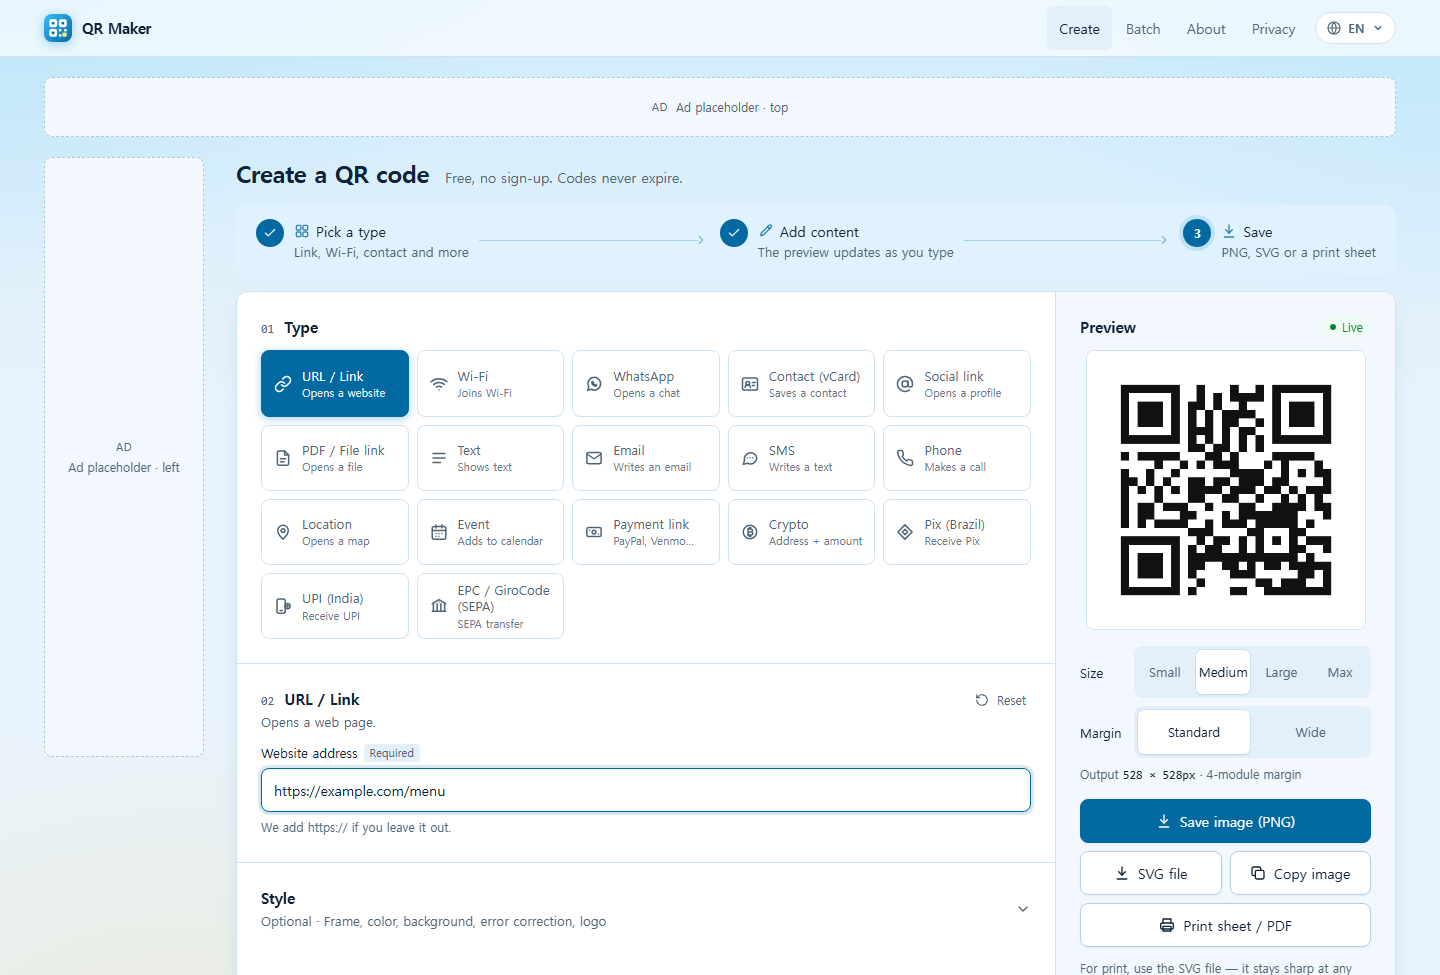
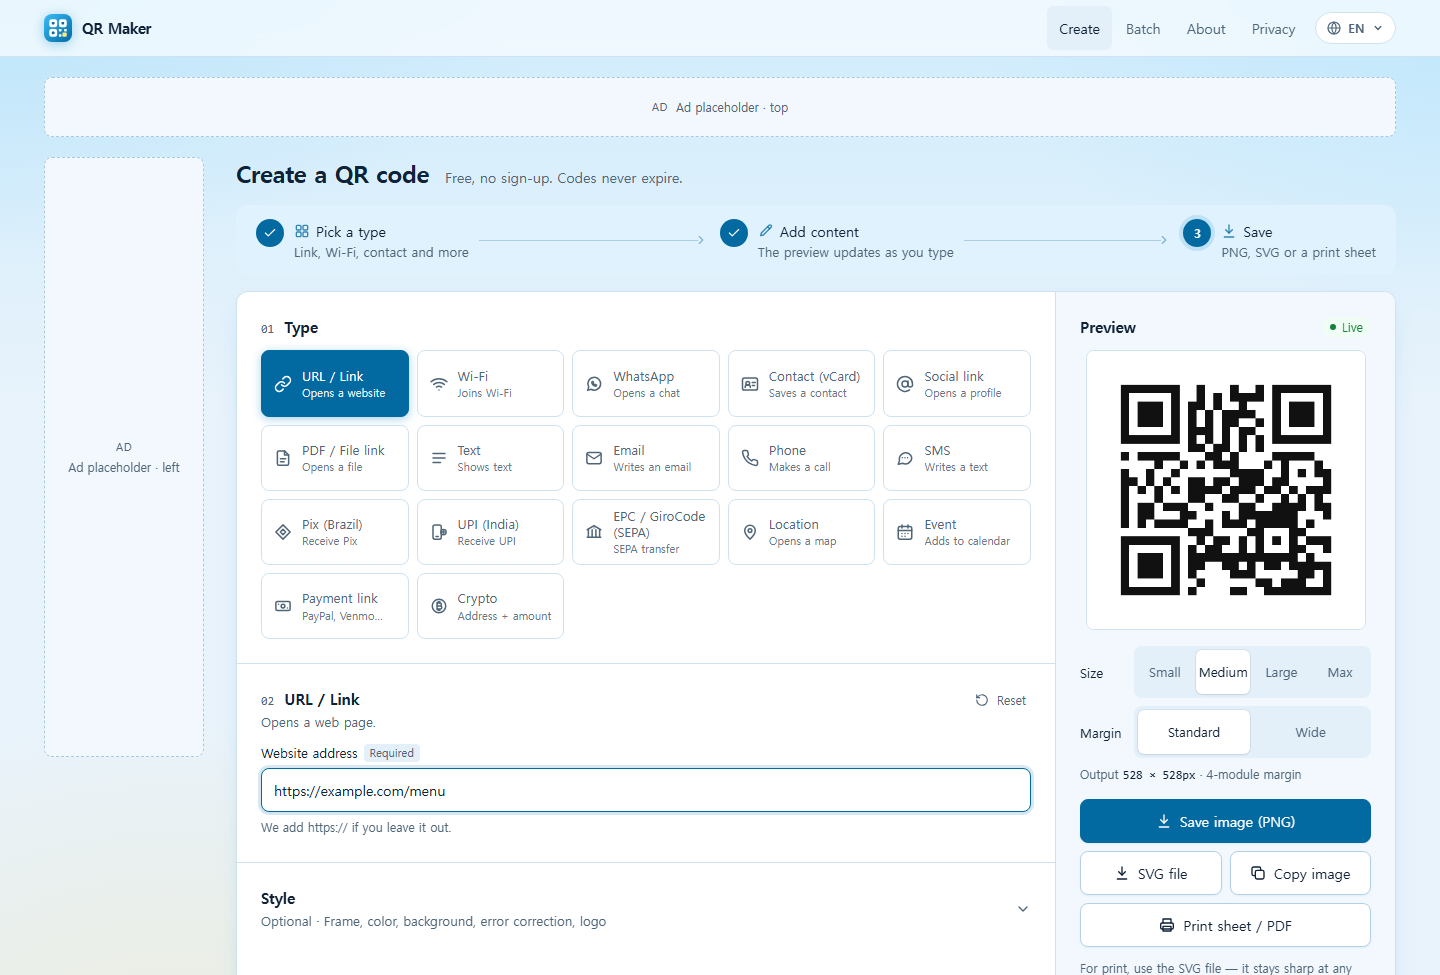
QR 종류 타일을 자주 쓰는 순서로 재정렬 (연락 수단 → 지역 결제 QR → 위치·일정·결제 링크·암호화폐), 메인 스크린샷 갱신

diff --git a/src/lib/qr/types.ts b/src/lib/qr/types.ts
@@ -1,6 +1,8 @@
-// Order = display order. The first six are the everyday ones (phones show only these until
-// "More types"): website, Wi-Fi sign, WhatsApp chat, business card, social profile, menu/PDF.
-export const QR_TYPES = ["url", "wifi", "whatsapp", "vcard", "social", "file", "text", "email", "sms", "phone", "geo", "event", "payment", "crypto", "pix", "upi", "epc"] as const;
+// Order = display order, most-used first. The first six are the everyday ones (phones show only
+// these until "More types"): website, Wi-Fi sign, WhatsApp chat, business card, social profile,
+// menu/PDF. Then plain text and the contact channels, the regional bank-transfer codes (Pix, UPI,
+// EPC — daily use in their markets), and finally the occasional ones.
+export const QR_TYPES = ["url", "wifi", "whatsapp", "vcard", "social", "file", "text", "email", "phone", "sms", "pix", "upi", "epc", "geo", "event", "payment", "crypto"] as const;
 export type QrType = (typeof QR_TYPES)[number];
 
 export const QR_TYPE_LABELS: Record<QrType, string> = {

diff --git a/src/components/qr/TypeTabs.tsx b/src/components/qr/TypeTabs.tsx
@@ -7,7 +7,7 @@ import { useI18n } from "../i18n/I18nProvider";
 
 /**
  * On a phone-width column only the first six tiles show until "More types" is pressed. The order
- * is QR_TYPES itself; the bank-transfer codes (Pix, UPI, EPC) sit at the end of the extra group.
+ * is QR_TYPES itself (most-used first).
  */
 const PHONE_VISIBLE = 6;
 
